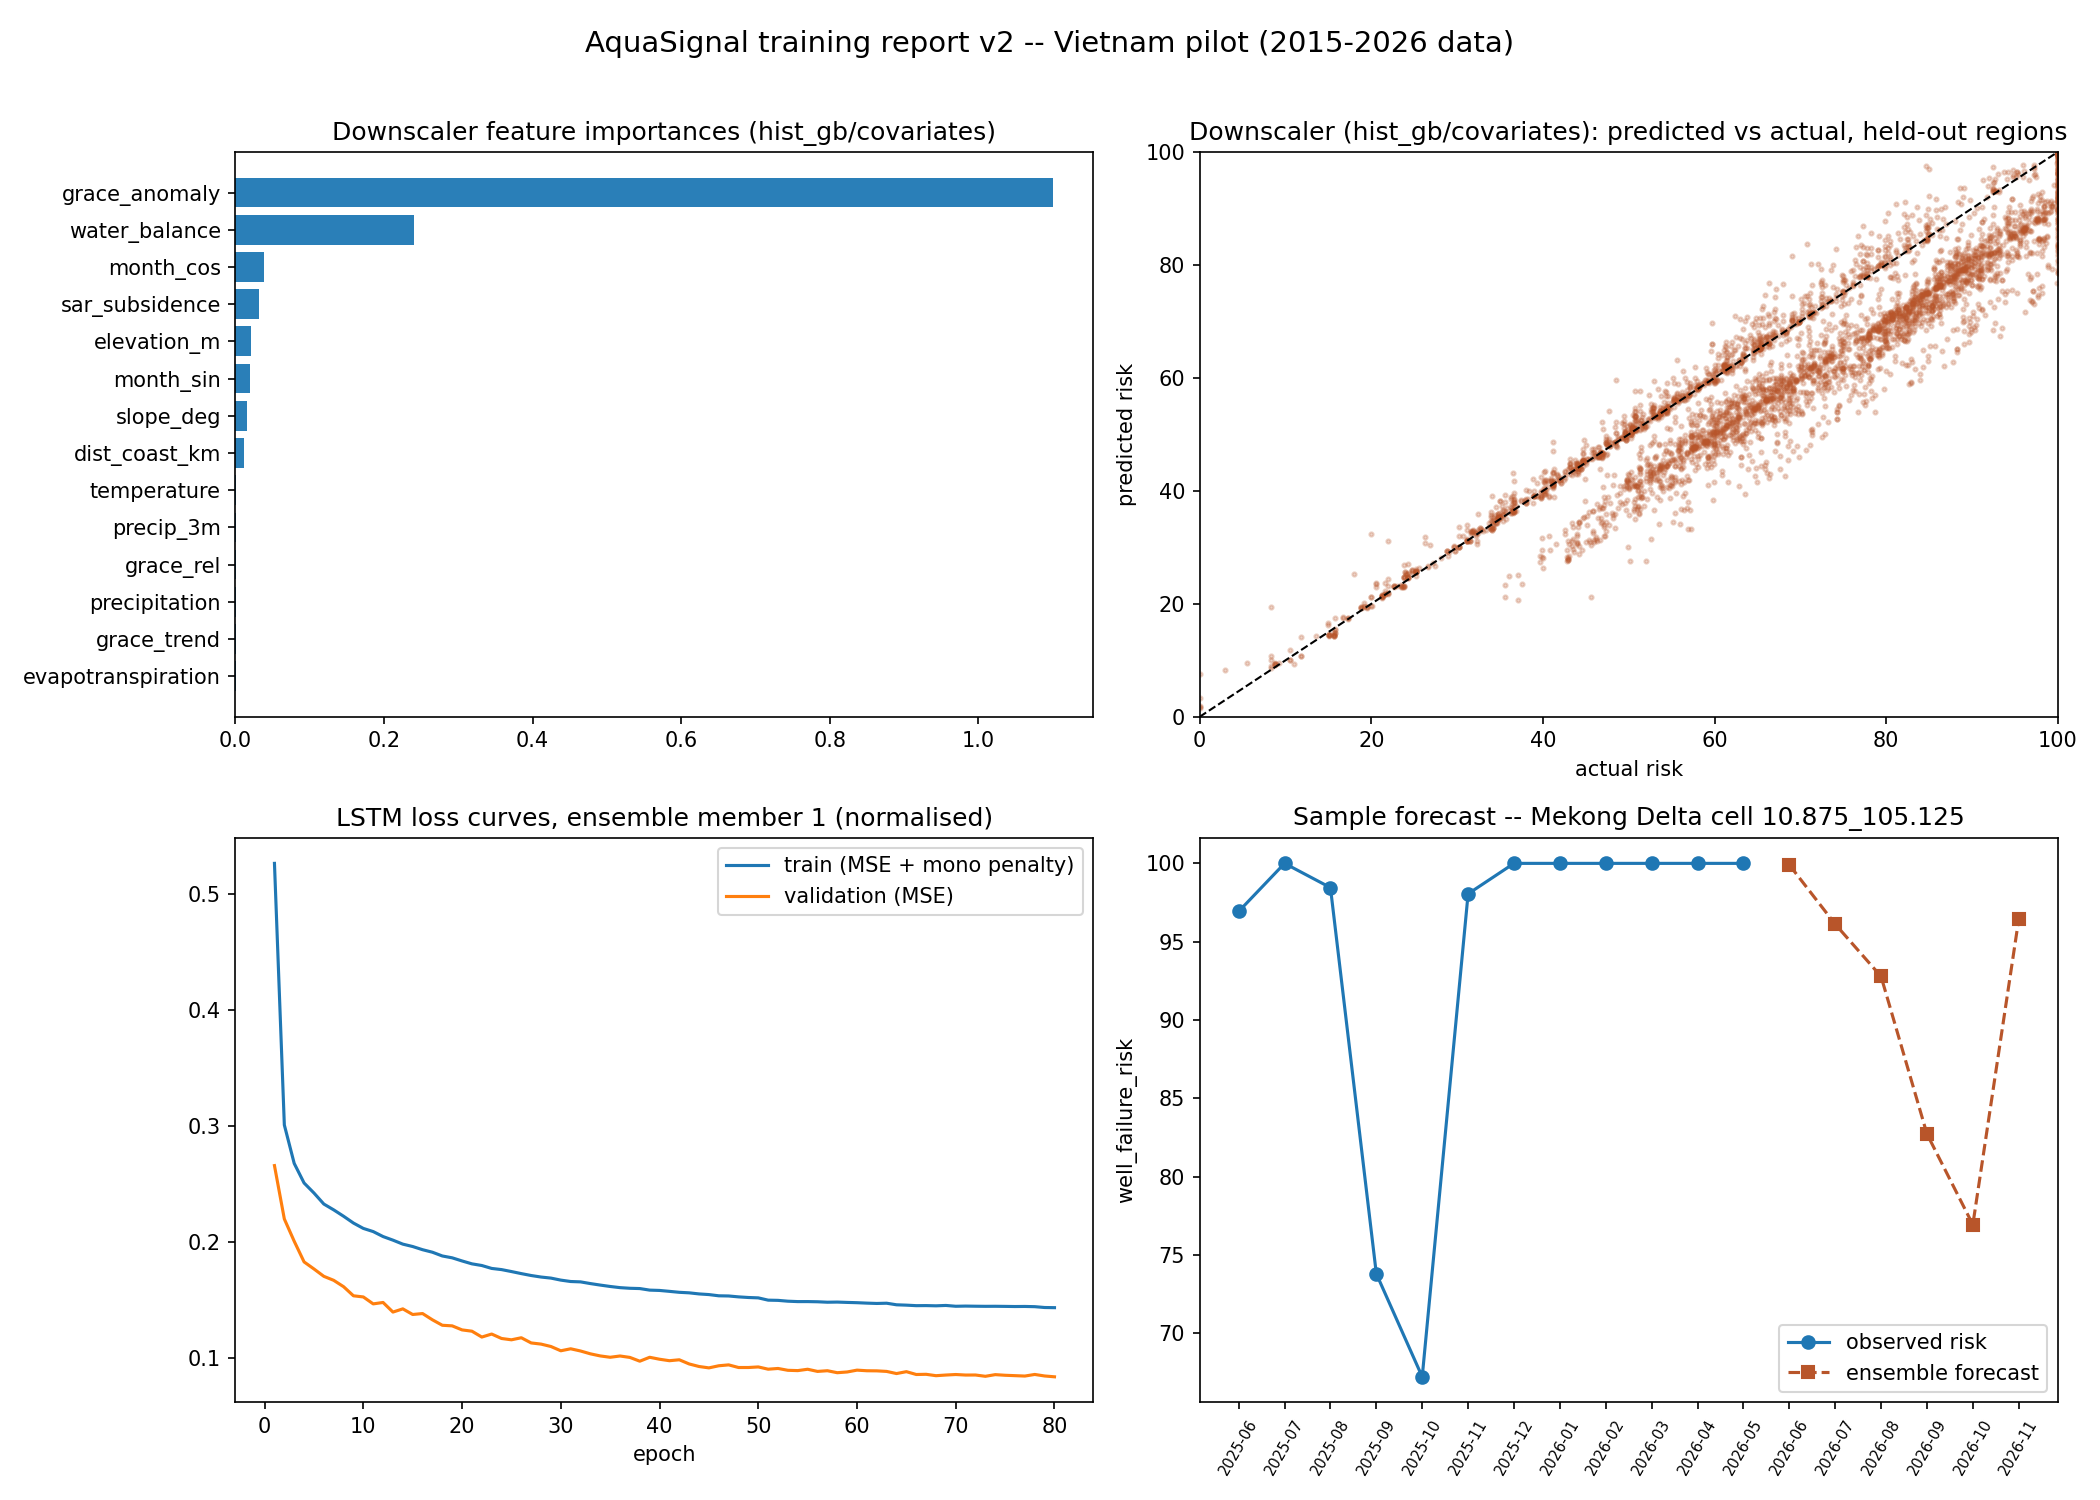
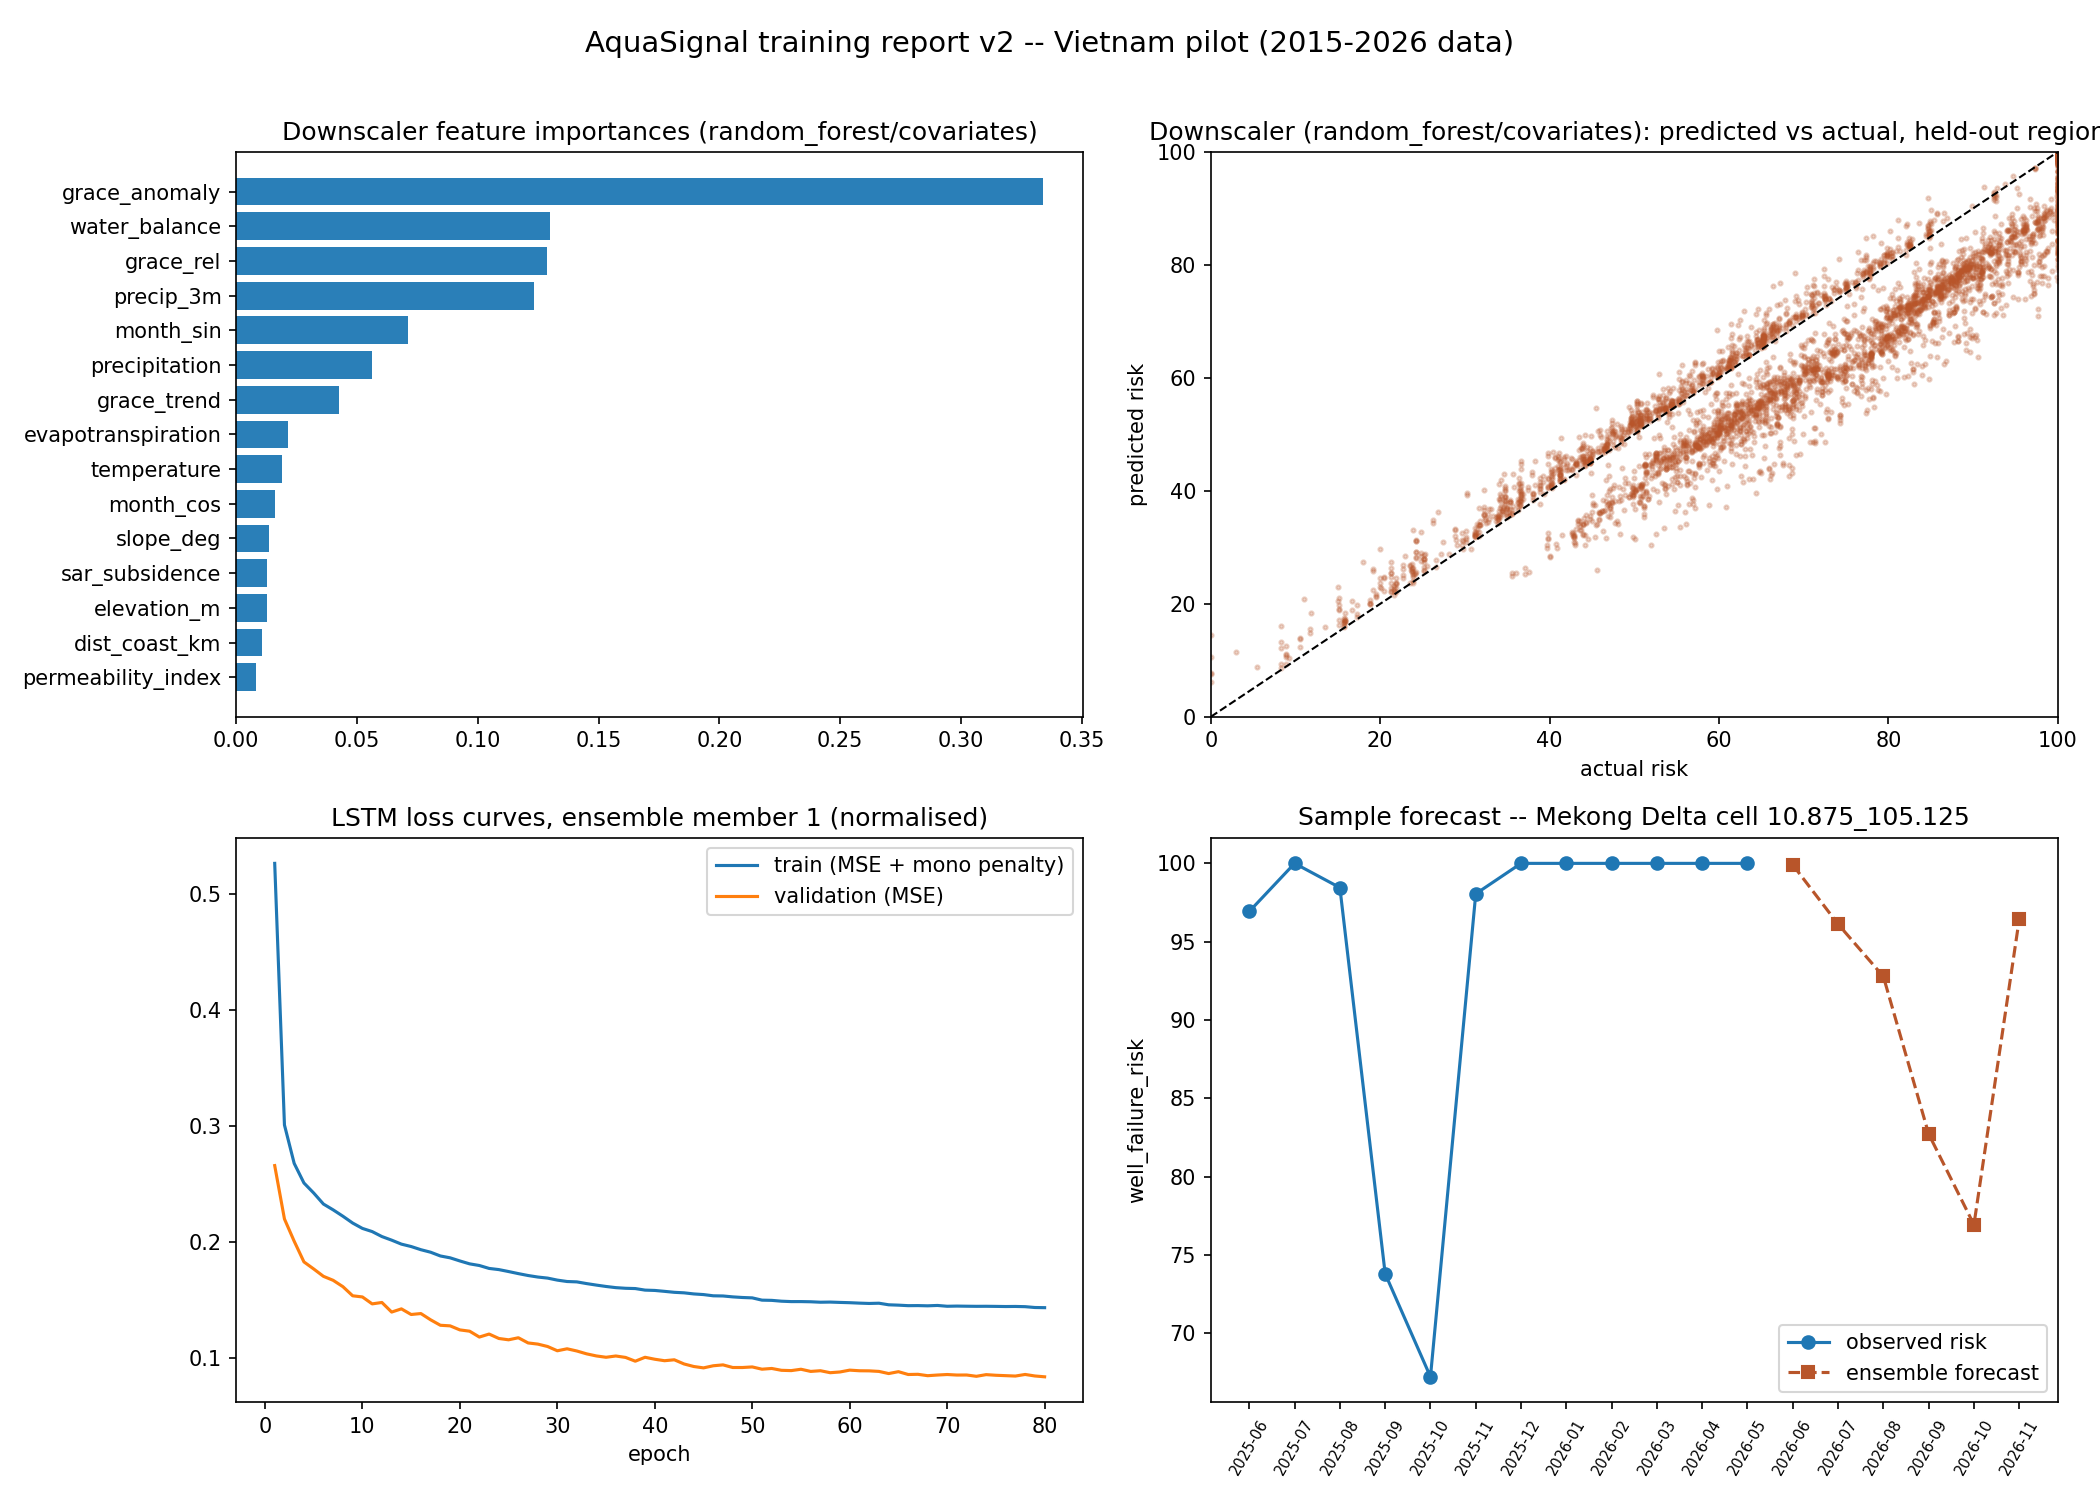
chore(models): host ML artifacts on Hugging Face Hub, untrack from git
The full-data downscaler RF is ~670 MB, past GitHub's 100 MB limit, so the
model files now live on the Hub (Hieule1/aquasignal-models) and are pulled at
startup via backend/models/download.py when HF_REPO_ID is set. Stop tracking
downscaler.pkl/forecaster.pt in git (kept on disk locally for dev/scoring),
gitignore them plus the training checkpoint and transient logs, and refresh
download.py's docs to match. training_report.png updated for the retrained,
permeability-aware model.

diff --git a/backend/models/download.py b/backend/models/download.py
@@ -1,9 +1,11 @@
-"""Fetch ML model artifacts from Hugging Face Hub (optional override).
+"""Fetch ML model artifacts from Hugging Face Hub.
 
-The repo already ships downscaler.pkl / forecaster.pt at the repo root
-(~4.3 MB combined), so by default there is nothing to download and this is a
-no-op. Setting HF_REPO_ID switches to Hub-hosted artifacts — the right move
-once models grow beyond comfortable git size or need to be private.
+The model files (downscaler.pkl, forecaster.pt) are NOT committed to git -- the
+full-data downscaler RF is ~670 MB, past GitHub's limit -- so they are hosted on
+the Hub instead (.gitignored locally). Set HF_REPO_ID and they are downloaded at
+startup. With HF_REPO_ID unset this is a no-op and the app uses whatever model
+files are already on disk (e.g. a local training run); a fresh deploy must set
+HF_REPO_ID or the artifacts will be missing.
 
 Environment
 -----------
@@ -33,7 +35,7 @@ def ensure_models() -> None:
     """Download model files from HF Hub unless they already exist locally."""
     repo_id = os.environ.get("HF_REPO_ID")
     if not repo_id:
-        LOG.info("HF_REPO_ID not set -- using model files bundled with the repo")
+        LOG.info("HF_REPO_ID not set -- using model files already on disk, if any")
         return
 
     # Imported lazily so the API never needs huggingface_hub unless HF is used.